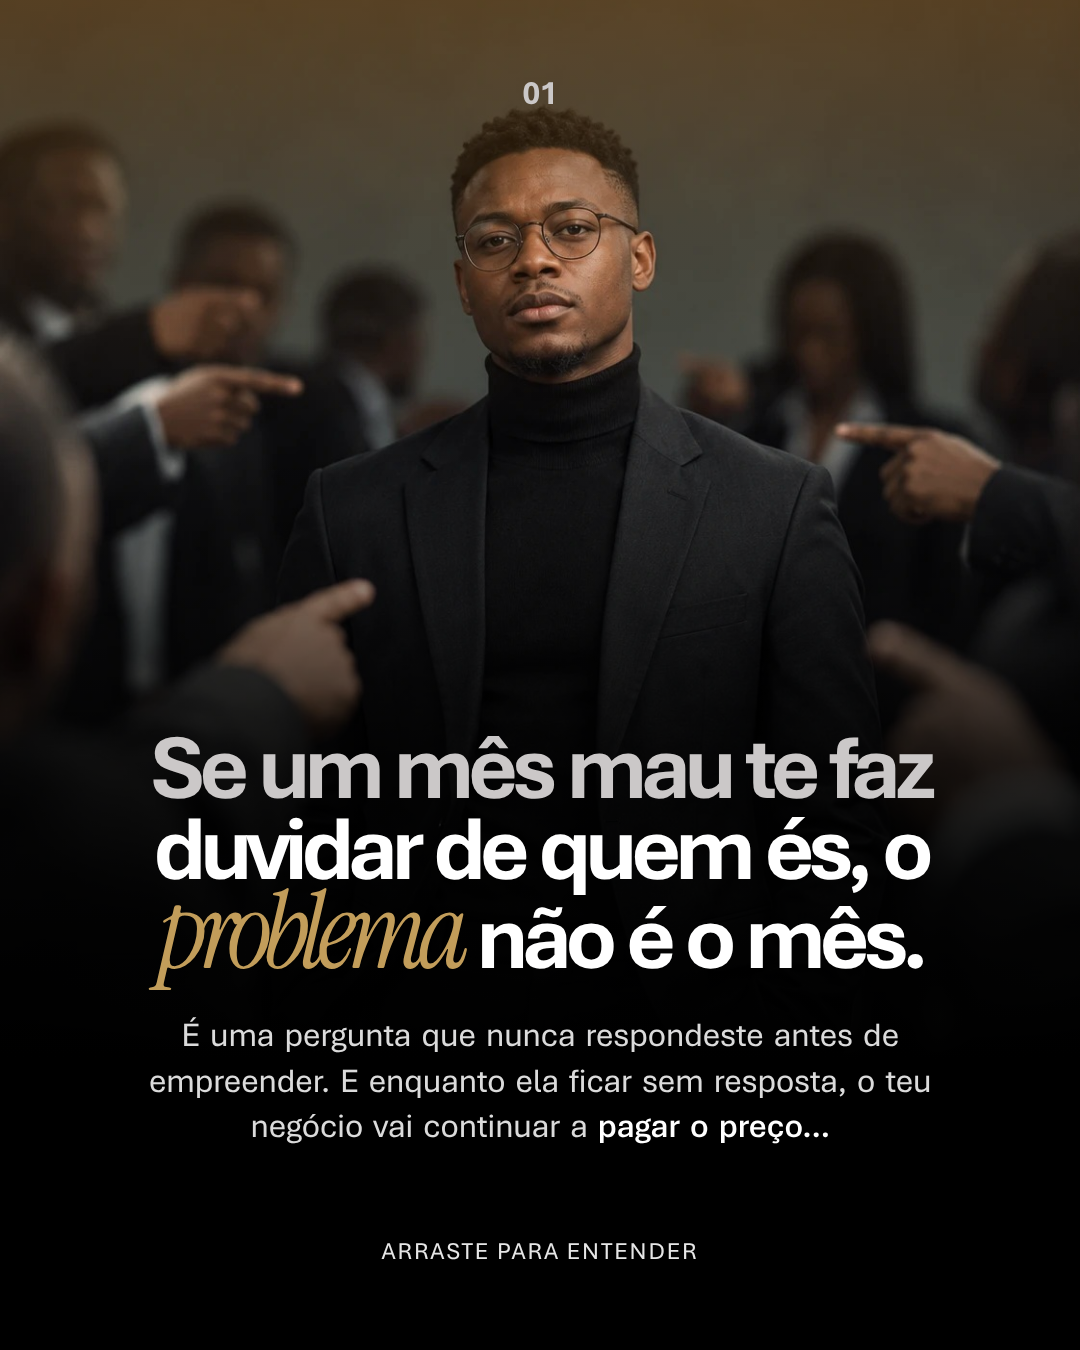
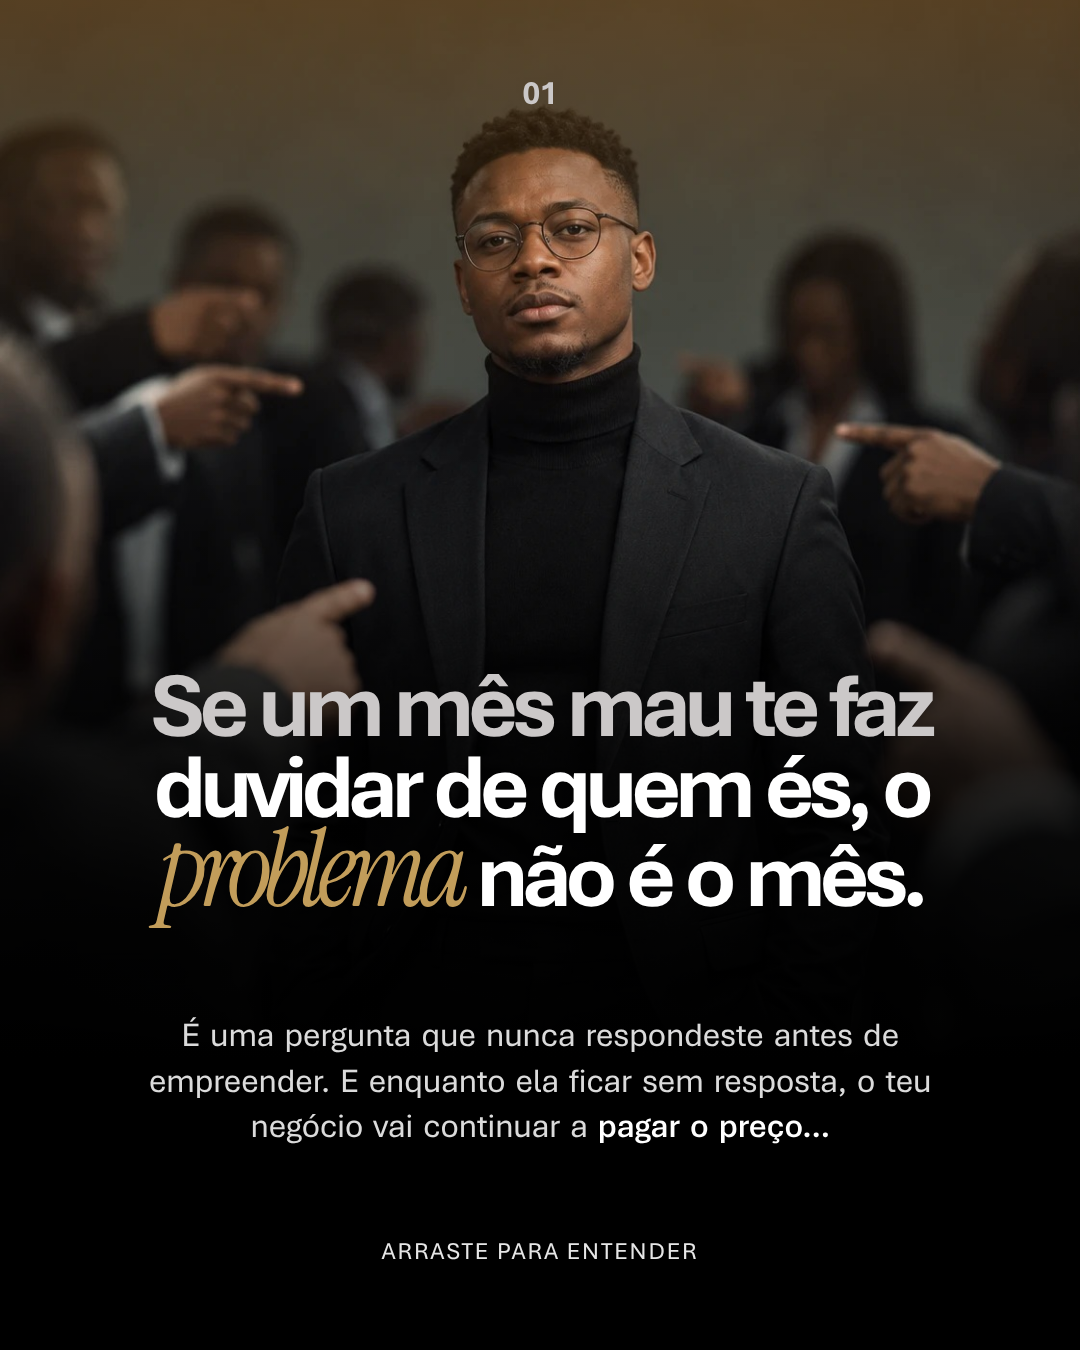
19/10: título da capa mais acima
Claude-Session: https://claude.ai/code/session_01RgmbLLVHoJT5B4GNygU6zs

Changed region(s): [[0.1222, 0.4978, 0.8861, 0.7156], [0.1222, 0.7156, 0.1528, 0.7467]]

diff --git a/content/founders/semana-01/index.html b/content/founders/semana-01/index.html
@@ -88,7 +88,7 @@ body{ background:#2a2a2a; display:flex; flex-wrap:wrap; gap:40px; padding:40px; 
     <div class="t1">Se um mês mau te faz</div>
     <div>duvidar de quem és, o</div>
     <div><span class="it">problema</span> não é o mês.</div>
-    <p class="sub" style="font-weight:400">É uma pergunta que nunca respondeste antes de empreender. E enquanto ela ficar sem resposta, o teu negócio vai continuar a <b>pagar o preço…</b></p>
+    <p class="sub" style="font-weight:400;margin-top:96px">É uma pergunta que nunca respondeste antes de empreender. E enquanto ela ficar sem resposta, o teu negócio vai continuar a <b>pagar o preço…</b></p>
   </div>
   <div class="cta-foot">Arraste para entender</div>
 </section>
